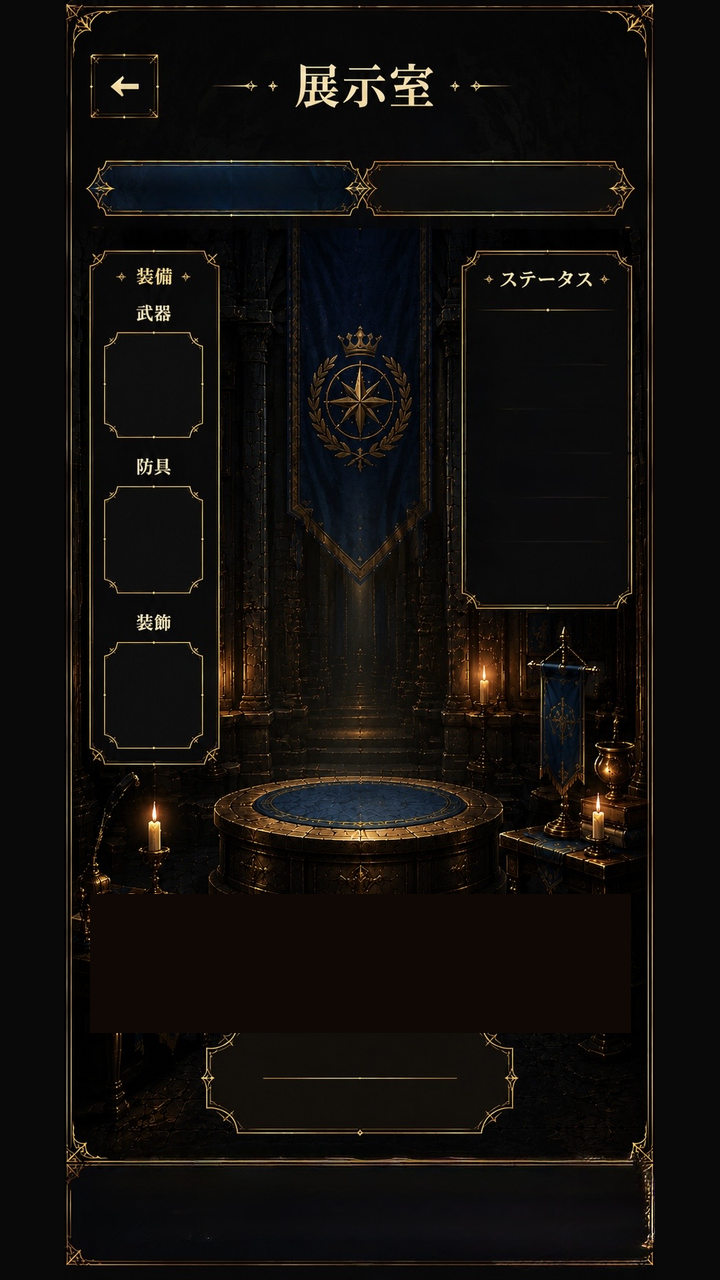
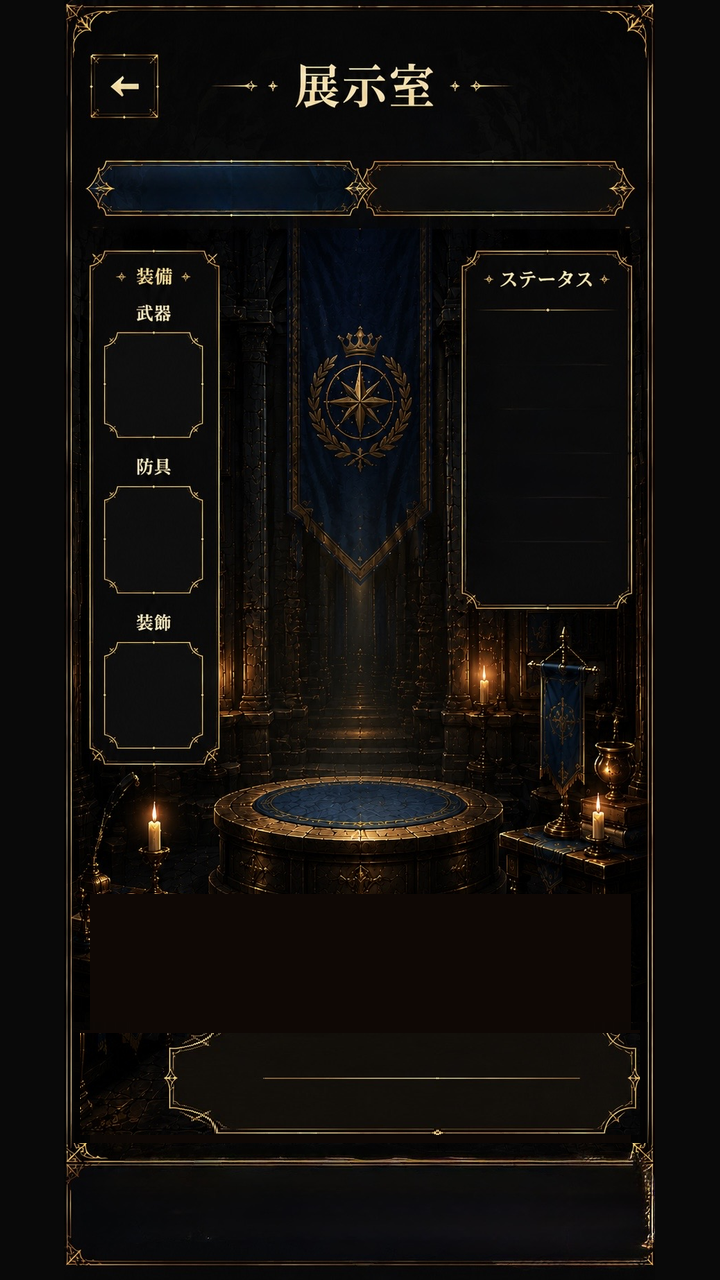
fix(showcase): widen baked nameplate frame for long staff titles
Staff nameplates like リーヴァ（標的シナジービルド） overflowed the
ornate chrome; stretch the BG frame and match top-rule/mask rects.

diff --git a/docs/project/CurrentState.md b/docs/project/CurrentState.md
@@ -4,6 +4,7 @@
 
 ## Last Update
 
+2026-08-04（**展示室名札枠を横に拡大／統合＋main**: スタッフ長名札が枠内に収まるよう焼込枠＋上辺補完を拡張。要Godot再インポート・実機）
 2026-08-03（**図鑑手引き総点検／統合＋main**: 必殺時間チャージ・レリック改変・炉研ぎGold・属性値100・曜日DG・分かれ道等を手引きへ反映。要実機）
 2026-08-04（**分かれ道／碑文バフを右上凡例表示／統合＋main**: 天候の下にアイコン＋説明。要実機）
 2026-08-04（**分かれ道タイミング調整／統合＋main**: 階層キャプションの代わりに三択。戦闘直後即出ししない。要実機）
